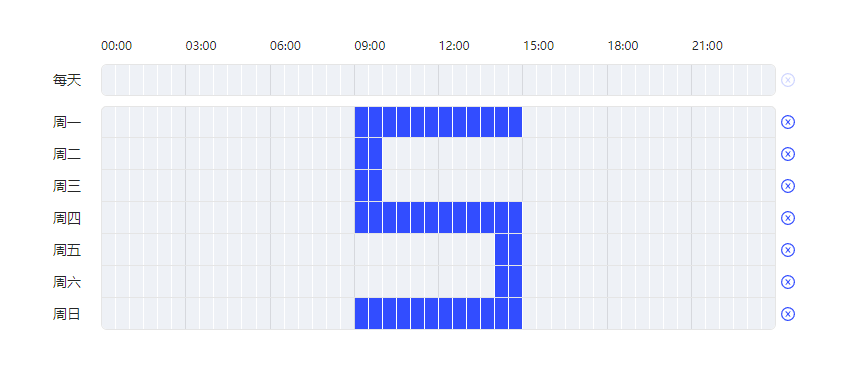
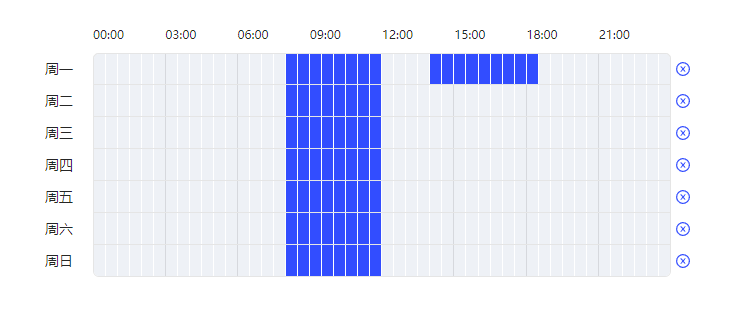
改为vue原生写法，减少打包体积

diff --git a/src/WeekTimePicker.vue b/src/WeekTimePicker.vue
@@ -11,107 +11,108 @@
   </div>
 </template>
 
-<script lang="ts">
-import { Component, Vue, Prop, Watch } from "vue-property-decorator";
+<script>
 import DayGrid from "./DayGrid.vue";
 import { DayTime, Moment } from "./utils";
 
-@Component({
+export default {
   name: "week-time-picker",
   components: {
     DayGrid
-  }
-})
-export default class extends Vue {
-  @Prop() value: Record<string, string[]>;
-
-  startRow = -1;
-  startCol = -1;
-  actionType = false;
-
-  weekday = [
-    new DayTime("周一", "mon", 0),
-    new DayTime("周二", "tue", 1),
-    new DayTime("周三", "wed", 2),
-    new DayTime("周四", "thu", 3),
-    new DayTime("周五", "fri", 4),
-    new DayTime("周六", "sat", 5),
-    new DayTime("周日", "sun", 6)
-  ];
-
-  get moments() {
-    const moments: string[] = [];
-    let current = 0;
-    while (current < 60 * 24) {
-      const moment = new Moment();
-      moment.minutes = current;
-      moments.push(moment.toString());
-      current += 180;
+  },
+  props: {
+    value: {
+      default: null
     }
-    return moments;
-  }
-
+  },
+  data() {
+    return {
+      startRow: -1,
+      startCol: -1,
+      actionType: false,
+      weekday: [
+        new DayTime("周一", "mon", 0),
+        new DayTime("周二", "tue", 1),
+        new DayTime("周三", "wed", 2),
+        new DayTime("周四", "thu", 3),
+        new DayTime("周五", "fri", 4),
+        new DayTime("周六", "sat", 5),
+        new DayTime("周日", "sun", 6)
+      ]
+    };
+  },
   mounted() {
     document.addEventListener("mouseup", this.onMouseUp);
-  }
-
+  },
   beforeDestroy() {
     document.removeEventListener("mouseup", this.onMouseUp);
-  }
-
-  @Watch("value", {
-    immediate: true
-  })
-  initModel() {
-    this.weekday.forEach(day => {
-      day.init(this.value ? this.value[day.field] : []);
-    });
-  }
-
-  emitEvent() {
-    const result: Record<string, string[]> = {};
-    let total = 0;
-    this.weekday.forEach(day => {
-      result[day.field] = day.display();
-      total += result[day.field].length;
-    });
-    if (total) {
-      this.$emit("input", result);
-    } else {
-      this.$emit("input", null);
+  },
+  watch: {
+    value: {
+      immediate: true,
+      handler() {
+        this.weekday.forEach(day => {
+          day.init(this.value ? this.value[day.field] : []);
+        });
+      }
     }
-    this.$emit("change", result);
+  },
+  computed: {
+    moments() {
+      const moments = [];
+      let current = 0;
+      while (current < 60 * 24) {
+        const moment = new Moment();
+        moment.minutes = current;
+        moments.push(moment.toString());
+        current += 180;
+      }
+      return moments;
+    }
+  },
+  methods: {
+    emitEvent() {
+      const result = {};
+      let total = 0;
+      this.weekday.forEach(day => {
+        result[day.field] = day.display();
+        total += result[day.field].length;
+      });
+      if (total) {
+        this.$emit("input", result);
+      } else {
+        this.$emit("input", null);
+      }
+      this.$emit("change", result);
+    },
+    onMouseDown(e) {
+      const target = e.target;
+      if (target.nodeName !== "LI") return;
+      this.startRow = +target.dataset.row;
+      this.startCol = +target.dataset.col;
+      this.actionType = target.dataset.active !== "true";
+    },
+    onMouseUp() {
+      if (this.startRow === -1) return;
+      this.weekday.forEach(day => day.setActive(this.actionType));
+      this.emitEvent();
+      this.startRow = -1;
+    },
+    onMouseMove(e) {
+      const target = e.target;
+      if (target.nodeName !== "LI" || this.startRow === -1) return;
+      const endRow = +target.dataset.row;
+      const endCol = +target.dataset.col;
+      const minCol = Math.min(this.startCol, endCol);
+      const maxCol = Math.max(this.startCol, endCol);
+      const minRow = Math.min(this.startRow, endRow);
+      const maxRow = Math.max(this.startRow, endRow);
+      this.weekday.forEach(item => {
+        item.setMouseArea(minCol, maxCol, minRow, maxRow);
+      });
+    }
   }
-
-  onMouseDown(e: MouseEvent) {
-    const target = e.target as HTMLElement;
-    if (target.nodeName !== "LI") return;
-    this.startRow = +target.dataset.row;
-    this.startCol = +target.dataset.col;
-    this.actionType = target.dataset.active !== "true";
-  }
-
-  onMouseUp() {
-    if (this.startRow === -1) return;
-    this.weekday.forEach(day => day.setActive(this.actionType));
-    this.emitEvent();
-    this.startRow = -1;
-  }
-
-  onMouseMove(e: MouseEvent) {
-    const target = e.target as HTMLElement;
-    if (target.nodeName !== "LI" || this.startRow === -1) return;
-    const endRow = +target.dataset.row;
-    const endCol = +target.dataset.col;
-    const minCol = Math.min(this.startCol, endCol);
-    const maxCol = Math.max(this.startCol, endCol);
-    const minRow = Math.min(this.startRow, endRow);
-    const maxRow = Math.max(this.startRow, endRow);
-    this.weekday.forEach(item => {
-      item.setMouseArea(minCol, maxCol, minRow, maxRow);
-    });
-  }
-}
+};
 </script>
 
 <style lang="scss" scoped>

diff --git a/src/DayGrid.vue b/src/DayGrid.vue
@@ -17,10 +17,7 @@
   </div>
 </template>
 
-<script lang="tsx">
-import { Component, Vue, Prop } from "vue-property-decorator";
-import { DayTime } from "./utils";
-
+<script>
 const Icon = {
   render() {
     return (
@@ -40,29 +37,32 @@ const Icon = {
   }
 };
 
-@Component({
+export default {
   name: "day-grid",
   components: {
     Icon
+  },
+  props: {
+    day: {
+      requried: true
+    }
+  },
+  computed: {
+    title() {
+      const text = this.day.display().join("\n");
+      return text ? `${this.day.label}：\n${text}` : "";
+    }
+  },
+  methods: {
+    /**
+     * 清空选中状态
+     */
+    clear() {
+      if (!this.title) return;
+      this.day.reset();
+    }
   }
-})
-export default class extends Vue {
-  @Prop({ required: true }) day: DayTime;
-
-  get title() {
-    const text = this.day.display().join("\n");
-    return text ? `${this.day.label}：\n${text}` : "";
-  }
-
-  /**
-   * 清空选中状态
-   */
-  clear() {
-    if (!this.title) return;
-    this.day.reset();
-    this.$emit("update", this.day);
-  }
-}
+};
 </script>
 
 <style lang="scss" scoped>

diff --git a/src/index.ts b/src/index.ts
@@ -1,12 +1,13 @@
 import component from "./WeekTimePicker.vue";
-import { PluginObject, Component } from "vue/types";
+import { PluginObject } from "vue/types";
 
-type WeekTimePicker = Component & PluginObject<void> & { VERSION: string };
+type WeekTimePicker = typeof component &
+  PluginObject<void> & { VERSION: string };
 
 const weekTimePicker = component as WeekTimePicker;
 
 weekTimePicker.install = function(Vue) {
-  Vue.component("week-time-picker", component);
+  Vue.component(component.name, component);
 };
 
 weekTimePicker.VERSION = process.env.VUE_APP_VERSION;

diff --git a/src/App.vue b/src/App.vue
@@ -19,7 +19,7 @@ import WeekTimePicker from "./index";
 })
 export default class extends Vue {
   weektime = {
-    mon: ["08:00-12:00", "14:00-15:30"],
+    mon: ["08:00-12:00", "14:00-18:30"],
     tue: ["08:00-12:00"],
     wed: ["08:00-12:00"],
     thu: ["08:00-12:00"],

diff --git a/types/index.d.ts b/types/index.d.ts
@@ -1,6 +1,6 @@
 import { PluginObject, Component } from "vue/types";
 
-type WeekTimePicker = Component & PluginObject<void> & { VERSION:string };
+type WeekTimePicker = Component & PluginObject<void> & { VERSION: string };
 
 declare const weekTimePicker: WeekTimePicker;
 

diff --git a/README.md b/README.md
@@ -9,14 +9,14 @@
 安装
 
 ```
-npm install -S @dmai/week-time-picker
+npm install -S week-time-picker
 ```
 
 全局注册
 
 ```typescript
 import Vue from 'vue';
-import WeekTimePicker from '@dmai/week-time-picker';
+import WeekTimePicker from 'week-time-picker';
 
 Vue.use(WeekTimePicker);
 ```
@@ -31,7 +31,7 @@ Vue.use(WeekTimePicker);
 </template>
 
 <script>
-import WeekTimePicker from '@dmai/week-time-picker';
+import WeekTimePicker from 'week-time-picker';
 
 export default {
   components: {
